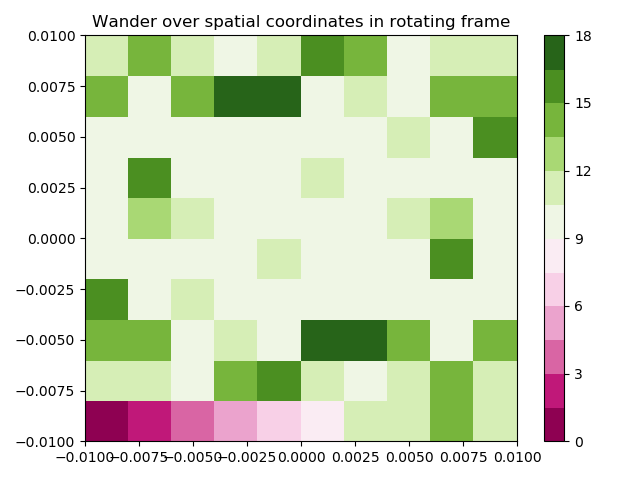
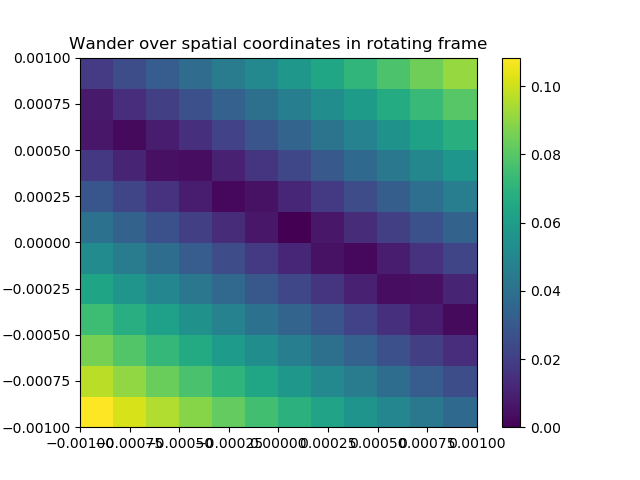
Fixed mesh plot

diff --git a/wander.py b/wander.py
@@ -69,15 +69,15 @@ def max_wander(max_pertubation_size=0.01, samples=3):
 
 
 def wander(position, samples=1):
-    """Returns maximum deviation over orbit in the rotating frame for given initial point
+    """Returns maximum wander over orbit in the rotating frame for given initial point
 
-    It returns the maximum wander from the initial point (not the lagrange point) over this timespan
-    pertubation_size determies the relative magnitude of the perturbation as in perturb()
+    Wander is the maximum deviation from the initial point (not the lagrange point) over this timespan
+    position gives the spatial pertubation from the lagrange point
     Samples denotes the number of random pertubations sampled within that point for gives perturbation size
     """
-    init_cond = init_cond_rot
-    init_cond[0] += position[0]
-    init_cond[1] += position[1]
+    init_cond = init_cond_rot + np.array(
+        (position[0], position[1], 0, 0, 0, 0)
+    )  # add pertubation
     orbit = orbits.rotating_frame(init_cond)
     wander_t = np.zeros((len(orbit.t)))
     for i in range(len(orbit.t)):
@@ -120,8 +120,8 @@ from matplotlib.colors import BoundaryNorm
 from matplotlib.ticker import MaxNLocator
 
 
-grid_size = 0.01
-sampling_points = 8
+grid_size = 0.001
+sampling_points = 6
 # make these smaller to increase the resolution
 dx, dy = grid_size / sampling_points, grid_size / sampling_points
 
@@ -130,14 +130,8 @@ y, x = np.mgrid[
     slice(-grid_size, grid_size + dy, dy), slice(-grid_size, grid_size + dx, dx)
 ]
 
-print(wander((x[0, 12], y[0, 12])))
-print(wander((x[0, 16], y[0, 16])))
-print(wander((x[3, 7], y[3, 7])))
-print(wander((x[3, 8], y[3, 8])))
-
 import time
 
-# z = np.sin(x) ** 10 + np.cos(10 + y * x) * np.cos(x)
 z = np.zeros_like(x)
 print(np.shape(z))
 for i, j in np.ndindex(z.shape):
@@ -150,20 +144,20 @@ for i, j in np.ndindex(z.shape):
 # x and y are bounds, so z should be the value *inside* those bounds.
 # Therefore, remove the last value from the z array.
 z = z[:-1, :-1]
-levels = MaxNLocator(nbins=15).tick_values(z.min(), z.max())
-
+# levels = MaxNLocator(nbins=15).tick_values(z.min(), z.max())
 
 # pick the desired colormap, sensible levels, and define a normalization
-# instance which takes data values and translates those into levels.
-cmap = plt.get_cmap("PiYG")
-norm = BoundaryNorm(levels, ncolors=cmap.N, clip=True)
+# instance which takes data values and translates those into levels.#
+
+# cmap = plt.get_cmap("PiYG")
+# norm = BoundaryNorm(levels, ncolors=cmap.N, clip=True)
 
 # fig, (ax0, ax1) = plt.subplots(nrows=2)
 
 fig = plt.figure()
 ax0 = fig.add_subplot()
 
-im = ax0.pcolormesh(x, y, z, cmap=cmap, norm=norm)
+im = ax0.pcolormesh(x, y, z)  # cmap=cmap)  # , norm=norm)
 fig.colorbar(im, ax=ax0)
 ax0.set_title("Wander over spatial coordinates in rotating frame")
 
@@ -178,7 +172,7 @@ ax0.set_title("Wander over spatial coordinates in rotating frame")
 
 # adjust spacing between subplots so `ax1` title and `ax0` tick labels
 # don't overlap
-fig.tight_layout()
+# fig.tight_layout()
 plt.savefig("testcolourmesh3.png")
 # plt.ticklabel_format(axis="both", style="", scilimits=None)
 plt.show()

diff --git a/constants.py b/constants.py
@@ -9,7 +9,7 @@ R = 5.2  # average planetary radius from sun
 
 
 PRECISION = 30  # evaluation points per orbit
-ORBIT_NUM = 20  # number of orbits
+ORBIT_NUM = 10  # number of orbits
 
 
 # DERIVED CONSTANTS
